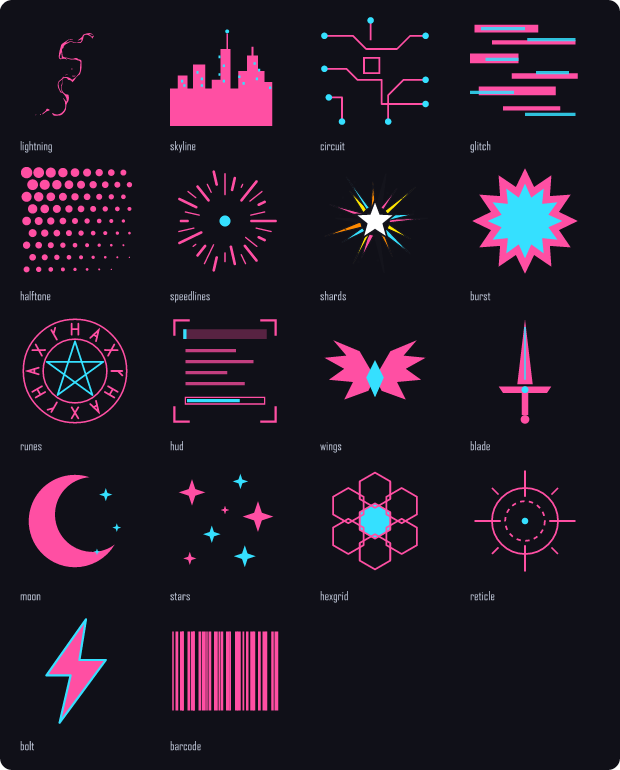
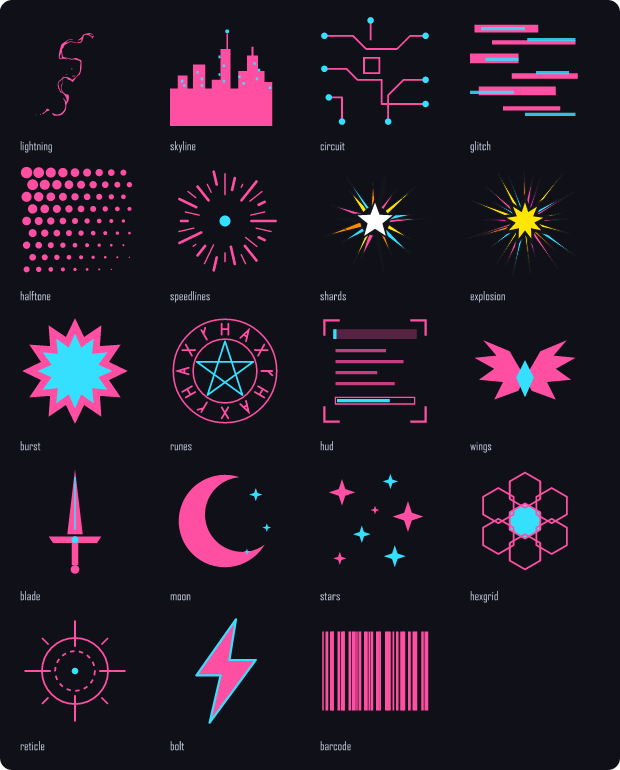
hero-x: bright, one card, an explosion motif after the key art, yellow rays, pop panels

diff --git a/src/motifs.js b/src/motifs.js
@@ -52,6 +52,19 @@ export const MOTIFS = {
     const dots = Array.from({ length: 14 }, (_, k) => { const [x, y] = polar(50, 50, 24 + (k % 5) * 4, k * 26 + 8); return `<circle cx="${x}" cy="${y}" r="0.9" fill="${ink}" opacity=".55"/>`; }).join("");
     return `${rays}${dots}<path d="M${star}Z" fill="#ffffff" stroke="${ink}" stroke-width="1.6" stroke-linejoin="miter"/>`;
   },
+  /** the whole key visual: long shards in four colours fanning out behind a big yellow star with a white and a black outline, and a patch of halftone */
+  explosion: (a, b) => {
+    const ink = "#14141c";
+    const fills = [a, "#ffe600", b, "#ff8a00", a, "#ff2bd6", "#ffe600", b];
+    const rays = Array.from({ length: 26 }, (_, k) => {
+      const deg = k * (360 / 26) + (k % 4) * 2, far = 34 + ((k * 7) % 5) * 4 + (k % 2 ? 0 : 6), half = 4.5 + (k % 3) * 2;
+      const [x1, y1] = polar(50, 50, 12, deg - half), [x2, y2] = polar(50, 50, 12, deg + half), [tx, ty] = polar(50, 50, far, deg + ((k % 3) - 1) * 3);
+      return `<path d="M${x1} ${y1}L${tx} ${ty}L${x2} ${y2}Z" fill="${fills[k % 8]}" stroke="${ink}" stroke-width="0.9" stroke-linejoin="miter"/>`;
+    }).join("");
+    const star = (r1, r2_, n) => Array.from({ length: n * 2 }, (_, k) => polar(50, 50, k % 2 ? r2_ : r1, -90 + (180 / n) * k).join(" ")).join("L");
+    const dots = Array.from({ length: 30 }, (_, k) => { const [x, y] = polar(50, 50, 22 + (k % 6) * 3.6, k * 12 + 5); return `<circle cx="${x}" cy="${y}" r="${0.5 + (k % 3) * 0.35}" fill="${ink}" opacity=".5"/>`; }).join("");
+    return `${rays}${dots}<path d="M${star(22, 11, 9)}Z" fill="#ffffff" stroke="${ink}" stroke-width="2.4" stroke-linejoin="miter"/><path d="M${star(19, 9.5, 9)}Z" fill="#ffe600" stroke="${ink}" stroke-width="1.2" stroke-linejoin="miter"/>`;
+  },
   /** a pop-art starburst */
   burst: (a, b) => {
     const pts = (r1, r2_) => Array.from({ length: 24 }, (_, k) => polar(50, 50, k % 2 ? r2_ : r1, k * 15).join(" ")).join("L");

diff --git a/GUIDE.md b/GUIDE.md
@@ -207,7 +207,7 @@ More patterns: `halftone`, `scanlines`, `stripes`, `hex`, `circuit`, `crosses`, 
 
 Up to 12 pieces of art on the card, each one a **motif** of the library or an **image** of yours (the file is embedded in the card, like the tech stack icons). The motifs are original line art drawn in the colours of the theme; they are in the spirit of a style (neon city, system windows, comic halftones, gothic ornaments), not copies of anything.
 
-<img src="docs/guide/decor-motifs.png" alt="the 18 motifs: lightning shards skyline circuit glitch halftone speedlines burst runes hud wings blade moon stars hexgrid reticle bolt barcode">
+<img src="docs/guide/decor-motifs.png" alt="the 19 motifs: lightning explosion shards skyline circuit glitch halftone speedlines burst runes hud wings blade moon stars hexgrid reticle bolt barcode">
 
 ```json
 { "card": { "decor": [
@@ -219,7 +219,7 @@ Up to 12 pieces of art on the card, each one a **motif** of the library or an **
 
 | Key | Values | Default |
 |---|---|---|
-| `motif`, `image` or `text` | a motif name (`lightning` `shards` `skyline` `circuit` `glitch` `halftone` `speedlines` `burst` `runes` `hud` `wings` `blade` `moon` `stars` `hexgrid` `reticle` `bolt` `barcode`) or the path of an image, or a word (`text`, at most 24 characters: a bold slanted caption, `color` its fill, `color2` its outline) | one of them is required |
+| `motif`, `image` or `text` | a motif name (`lightning` `explosion` `shards` `skyline` `circuit` `glitch` `halftone` `speedlines` `burst` `runes` `hud` `wings` `blade` `moon` `stars` `hexgrid` `reticle` `bolt` `barcode`) or the path of an image, or a word (`text`, at most 24 characters: a bold slanted caption, `color` its fill, `color2` its outline) | one of them is required |
 | `x` `y` | the centre, in percent of the card **width** (1 = 10 px): `x` from the left, `y` from the top, or from the bottom with `anchor: "bottom"`; −50–150 and −50–200 | `50` `20` |
 | `anchor` | `top` `bottom` | `top` |
 | `size` | the width of the piece, percent of the card width, 2–150 | `20` |

diff --git a/presets/README.md b/presets/README.md
@@ -26,7 +26,7 @@ Every preset defines a `dark` and a `light` slot, so the README `<picture>` snip
 | [`edgerunner-red`](edgerunner-red.json) | Dark red with yellow labels, like the character cards of the series: notched panels with tag titles, a circuit pattern, a system window, a barcode and glitch bars; shield rank, glowing snake |
 | [`shadow-monarch`](shadow-monarch.json) | Violet and electric blue, a hex pattern, a rune circle and system window; shield rank, glowing snake |
 | [`dante`](dante.json) | Black, crimson and silver, faint wings and blades; shield rank |
-| [`hero-x`](hero-x.json) | After the key art of To Be Hero X: white, black outlines and shards of magenta, yellow, orange and blue (a dark night version too), square panels with tag titles, halftone and exploding shards; open Pac-Man maze |
+| [`hero-x`](hero-x.json) | After the key art of To Be Hero X, bright: white, black outlines, yellow rays, an explosion of shards round a yellow star, pop panels with tag titles, a starburst rank and a BOOM! caption; one card for every mode, open Pac-Man maze |
 | [`plus-ultra`](plus-ultra.json) | Comic blue, red and yellow, speed lines and a starburst; rainbow snake |
 
 `portfolio` reads its tech stack icons from `assets/img/` (relative to `config.json`): copy [`assets/img/`](assets/img) next to your config, and replace the placeholder text, URLs and `your-login`.
@@ -155,9 +155,11 @@ Every preset defines a `dark` and a `light` slot, so the README `<picture>` snip
 
 [`hero-x.json`](hero-x.json)
 
-| Dark | Light |
-|---|---|
-| <img src="../docs/presets/hero-x-dark.png"> | <img src="../docs/presets/hero-x-light.png"> |
+One card, bright on every mode (a single theme).
+
+| Card |
+|---|
+| <img src="../docs/presets/hero-x-dark.png"> |
 
 ## plus-ultra
 
